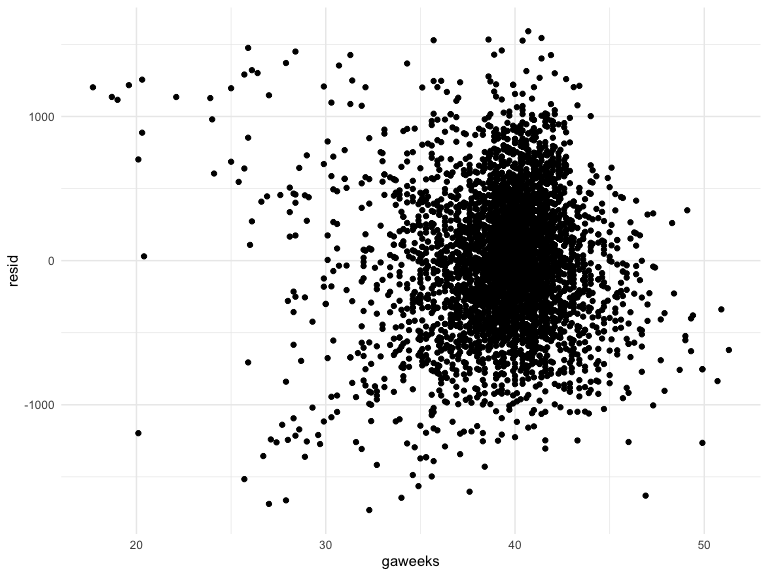
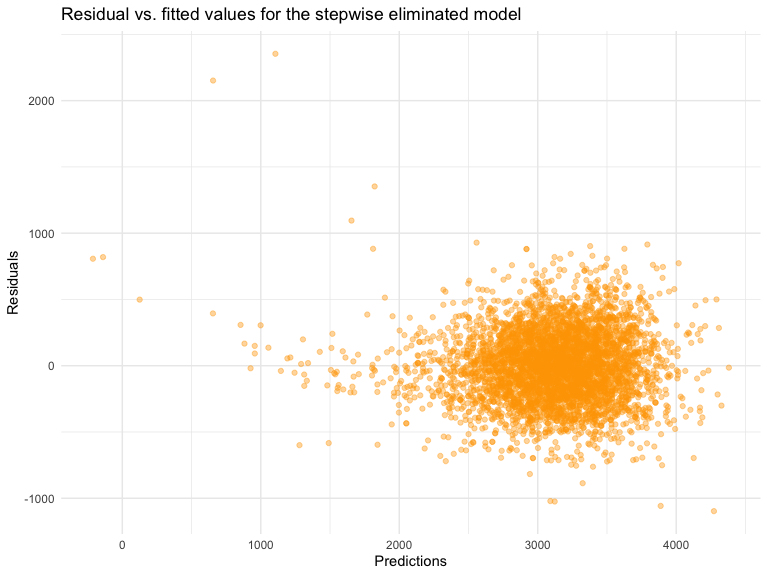
residual plot

diff --git a/p8105_hw6_mx2241.md b/p8105_hw6_mx2241.md
@@ -147,7 +147,7 @@ baby_df =
 
 ``` r
 # Stepwise Elimination
-model = 
+model_selection = 
   lm(bwt ~ ., data = baby_df) %>% 
   step(., direction = "both") %>% 
   broom::tidy()
@@ -311,6 +311,51 @@ model =
     ## - mrace     3  14683609 335670021 48894
     ## - blength   1 102191779 423178191 49903
     ## - bhead     1 106779754 427766166 49950
+
+``` r
+# Final model selection
+model = 
+  lm(bwt ~ babysex + bhead + blength + delwt + fincome + gaweeks + mheight + mrace + parity + ppwt + smoken, data = baby_df)
+
+model %>% 
+  broom::tidy() %>% 
+  select(term, estimate, p.value) %>% 
+  knitr::kable(digits = 3)
+```
+
+| term              |   estimate | p.value |
+| :---------------- | ---------: | ------: |
+| (Intercept)       | \-6145.151 |   0.000 |
+| babysexMale       |   \-28.558 |   0.001 |
+| bhead             |    130.777 |   0.000 |
+| blength           |     74.947 |   0.000 |
+| delwt             |      4.107 |   0.000 |
+| fincome           |      0.318 |   0.069 |
+| gaweeks           |     11.592 |   0.000 |
+| mheight           |      6.594 |   0.000 |
+| mraceBlack        |   \-63.906 |   0.132 |
+| mracePuerto Rican |   \-25.791 |   0.570 |
+| mraceWhite        |     74.887 |   0.077 |
+| parity            |     96.305 |   0.017 |
+| ppwt              |    \-2.676 |   0.000 |
+| smoken            |    \-4.843 |   0.000 |
+
+### Residual Plots
+
+``` r
+baby_df %>% 
+  add_residuals(model) %>% 
+  add_predictions(model) %>% 
+  ggplot(aes(x = pred, y = resid)) +
+  geom_point(color = "orange", alpha = 0.4) +
+  labs(
+    title = "Residual vs. fitted values for the stepwise eliminated model",
+    x = "Predictions",
+    y = "Residuals"
+  )
+```
+
+<img src="p8105_hw6_mx2241_files/figure-gfm/unnamed-chunk-7-1.png" width="90%" />
 
 baby\_df %\>% modelr::add\_residuals(model\_fit) %\>% ggplot(aes(x =
 gaweeks, y = resid)) + geom\_point()
